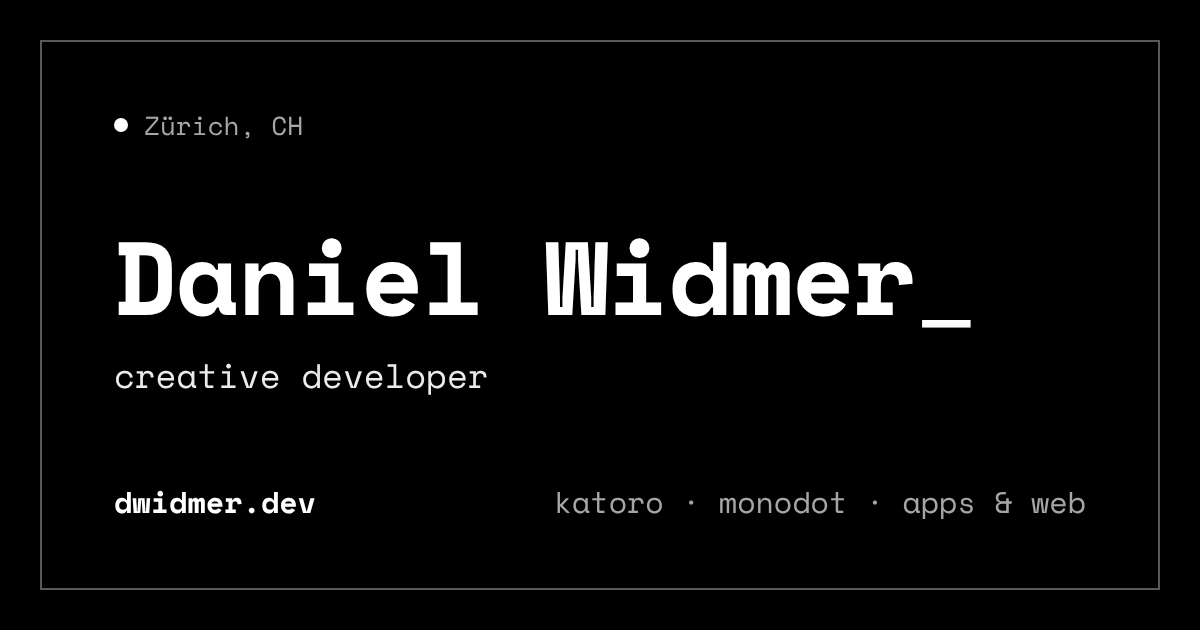
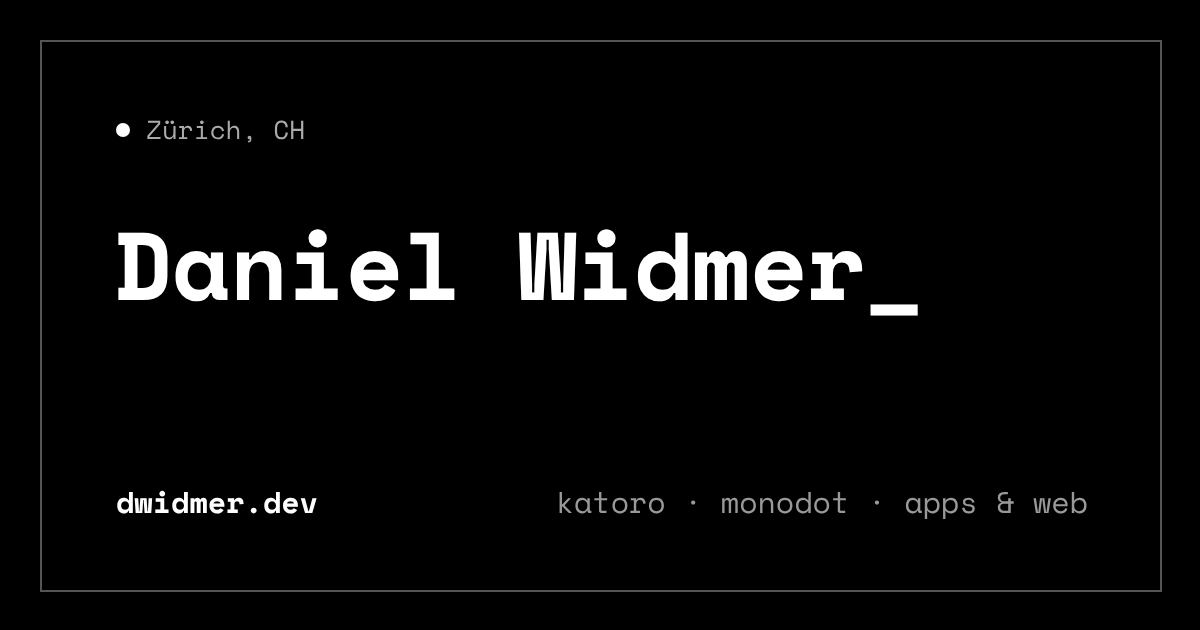
Trim the site to plain text: no "creative developer", no sales copy
- Drop the "creative developer" tagline from the hero, meta tags, structured
  data, manifest, share card and the website preview screenshots
- Remove the lead paragraphs above Projekte and Kontakt
- Remove the contact sidebar (Direkter Draht, terminal lines); the form now
  spans the full width, LinkedIn stays in the footer
- Shorten project descriptions and drop the filler highlights on the home page
- Tone down a few phrases on the monodot, Schälle Sau and website pages

Claude-Session: https://claude.ai/code/session_01XacnCaQFSujVxnhW9fu5eD

diff --git a/index.html b/index.html
@@ -22,10 +22,10 @@
     <meta name="theme-color" content="#000000">
     <title data-en-text="Daniel Widmer - Portfolio">Daniel Widmer - Portfolio</title>
     <meta name="description"
-        content="Portfolio von Daniel Widmer – Creative Developer & Digital Artist. Senior Business Analyst und App Developer mit Expertise in Frontend Development, UI/UX Design und Mobile App Development. Spezialisiert auf JavaScript, Swift, SwiftUI und innovative digitale Lösungen."
-        data-en-content="Portfolio of Daniel Widmer – Creative Developer & Digital Artist. Senior Business Analyst and app developer with expertise in frontend development, UI/UX design and mobile app development. Focused on JavaScript, Swift, SwiftUI and thoughtful digital products.">
+        content="Daniel Widmer, Business Analyst und App-Entwickler in Zürich. iOS-Apps mit Swift und SwiftUI, Websites mit JavaScript."
+        data-en-content="Daniel Widmer, business analyst and app developer in Zurich. iOS apps with Swift and SwiftUI, websites with JavaScript.">
     <meta name="keywords"
-        content="Daniel Widmer, Creative Developer, Frontend Development, JavaScript, Swift, iOS Development, UI/UX Design, Portfolio, Business Analyst, App Developer, SwiftUI, Vite, Web Development">
+        content="Daniel Widmer, Frontend Development, JavaScript, Swift, iOS Development, UI/UX Design, Portfolio, Business Analyst, App Developer, SwiftUI, Vite, Web Development">
     <meta name="author" content="Daniel Widmer">
     <meta name="robots" content="index, follow">
     <link rel="canonical" href="https://dwidmer.dev/">
@@ -42,21 +42,21 @@
     <meta property="og:locale:alternate" content="en_GB">
     <meta property="og:title" content="Daniel Widmer - Portfolio">
     <meta property="og:description"
-        content="Creative Developer & Digital Artist. Digitale Erlebnisse, die begeistern und inspirieren."
-        data-en-content="Creative Developer & Digital Artist. Digital experiences that delight and inspire.">
+        content="Business Analyst und App-Entwickler in Zürich."
+        data-en-content="Business analyst and app developer in Zurich.">
     <meta property="og:url" content="https://dwidmer.dev/">
     <meta property="og:site_name" content="Daniel Widmer">
     <meta property="og:image" content="https://dwidmer.dev/assets/og-image.png">
     <meta property="og:image:width" content="1200">
     <meta property="og:image:height" content="630">
-    <meta property="og:image:alt" content="Daniel Widmer, creative developer, dwidmer.dev">
+    <meta property="og:image:alt" content="Daniel Widmer, dwidmer.dev">
 
     <!-- Twitter Card -->
     <meta name="twitter:card" content="summary_large_image">
     <meta name="twitter:title" content="Daniel Widmer - Portfolio">
-    <meta name="twitter:description" content="Creative Developer & Digital Artist.">
+    <meta name="twitter:description" content="Business Analyst und App-Entwickler in Zürich.">
     <meta name="twitter:image" content="https://dwidmer.dev/assets/og-image.png">
-    <meta name="twitter:image:alt" content="Daniel Widmer, creative developer, dwidmer.dev">
+    <meta name="twitter:image:alt" content="Daniel Widmer, dwidmer.dev">
 
     <!-- Structured Data (Schema.org) -->
     <script type="application/ld+json">
@@ -64,8 +64,7 @@
         "@context": "https://schema.org",
         "@type": "Person",
         "name": "Daniel Widmer",
-        "jobTitle": "Creative Developer & Digital Artist",
-        "description": "Senior Business Analyst und App Developer mit Expertise in Frontend Development, UI/UX Design und Mobile App Development",
+        "jobTitle": "Business Analyst & App Developer",
         "url": "https://dwidmer.dev",
         "sameAs": [
             "https://github.com/danisan101",
@@ -148,7 +147,6 @@
                 <p class="hero-status"><span class="status-dot" aria-hidden="true"></span><span data-lang="de">Zürich, CH · baut gerade an katoro</span><span data-lang="en">Zurich, CH · currently building katoro</span></p>
                 <h1 id="heroTitle" tabindex="-1"><span id="heroName" class="hero-name" data-text="Daniel Widmer">Daniel
                         Widmer</span><span class="cursor-blink" aria-hidden="true">_</span></h1>
-                <p id="heroTagline">creative developer</p>
                 <div class="hero-actions">
                     <a class="cta-button" href="#projects"><span data-lang="de">Projekte ansehen</span><span data-lang="en">View projects</span></a>
                     <a class="cta-button cta-button-ghost" href="#contact"><span data-lang="de">Kontakt</span><span data-lang="en">Contact</span></a>
@@ -167,8 +165,7 @@
         <section id="projects" class="section-block fade-in" aria-labelledby="projectsTitle">
             <div class="section-heading">
                 <span class="section-eyebrow" aria-hidden="true">01 / <span data-lang="de">Projekte</span><span data-lang="en">Projects</span></span>
-                <h2 id="projectsTitle" class="section-title"><span data-lang="de">Meine Projekte</span><span data-lang="en">My projects</span></h2>
-                <p class="section-lead"><span data-lang="de">Ausgewählte Arbeiten mit monochromem Charakter, reduzierter UI und Fokus auf Tempo, Lesbarkeit und Nutzbarkeit.</span><span data-lang="en">Selected work with a monochrome character, a pared-back UI and a focus on speed, readability and usability.</span></p>
+                <h2 id="projectsTitle" class="section-title"><span data-lang="de">Projekte</span><span data-lang="en">Projects</span></h2>
             </div>
             <div class="projects-grid">
                 <article class="project-card project-card-featured">
@@ -212,11 +209,7 @@
                                 <span class="project-year">2026</span>
                             </div>
                             <h3 class="project-title">monodot. <span class="project-arrow" aria-hidden="true">&rarr;</span></h3>
-                            <p class="project-description"><span data-lang="de">Minimalistische App mit Fokus auf Reduktion und klare Interaktion.</span><span data-lang="en">Minimal app focused on reduction and clear interaction.</span></p>
-                            <ul class="project-highlights">
-                                <li><span data-lang="de">Konzept, Entwicklung & UI/UX aus einer Hand</span><span data-lang="en">Concept, development & UI/UX from a single hand</span></li>
-                                <li><span data-lang="de">Native iOS-Experience mit monochromer Ästhetik</span><span data-lang="en">Native iOS experience with a monochrome aesthetic</span></li>
-                            </ul>
+                            <p class="project-description"><span data-lang="de">Minimalistische iOS-App in Schwarzweiss.</span><span data-lang="en">Minimal iOS app in black and white.</span></p>
                             <div class="project-tech">
                                 <span class="tech-tag">Swift</span>
                                 <span class="tech-tag">iOS</span>
@@ -238,11 +231,7 @@
                                 <span class="project-year">2025</span>
                             </div>
                             <h3 class="project-title">Schälle Sau <span class="project-arrow" aria-hidden="true">&rarr;</span></h3>
-                            <p class="project-description"><span data-lang="de">Scorekeeper-App mit minimalistischer UI, optimiert für schnelle Spielzüge.</span><span data-lang="en">Scorekeeper app with a minimal UI, built for quick turns.</span></p>
-                            <ul class="project-highlights">
-                                <li><span data-lang="de">Konzept, Entwicklung & UI/UX aus einer Hand</span><span data-lang="en">Concept, development & UI/UX from a single hand</span></li>
-                                <li><span data-lang="de">Native iOS-Experience mit klaren, reduzierten Controls</span><span data-lang="en">Native iOS experience with clear, reduced controls</span></li>
-                            </ul>
+                            <p class="project-description"><span data-lang="de">Scorekeeper-App für iPhone und iPad.</span><span data-lang="en">Scorekeeper app for iPhone and iPad.</span></p>
                             <div class="project-tech">
                                 <span class="tech-tag">Swift</span>
                                 <span class="tech-tag">iOS</span>
@@ -264,11 +253,7 @@
                                 <span class="project-year">2025</span>
                             </div>
                             <h3 class="project-title"><span data-lang="de">Meine Website</span><span data-lang="en">My website</span> <span class="project-arrow" aria-hidden="true">&rarr;</span></h3>
-                            <p class="project-description"><span data-lang="de">Monochromes Portfolio auf einem eigenen Design-System, mit Terminal-Akzent und Easter Eggs.</span><span data-lang="en">Monochrome portfolio built on its own design system, with a terminal accent and easter eggs.</span></p>
-                            <ul class="project-highlights">
-                                <li><span data-lang="de">Ein Satz Tokens für Abstand, Typografie, Radius und Bewegung</span><span data-lang="en">One set of tokens for spacing, typography, radius and motion</span></li>
-                                <li><span data-lang="de">Performance-optimiert mit Vite und modularem JS</span><span data-lang="en">Performance-tuned with Vite and modular JS</span></li>
-                            </ul>
+                            <p class="project-description"><span data-lang="de">Diese Seite. HTML, CSS und JavaScript mit Vite.</span><span data-lang="en">This site. HTML, CSS and JavaScript with Vite.</span></p>
                             <div class="project-tech">
                                 <span class="tech-tag">HTML</span>
                                 <span class="tech-tag">CSS</span>
@@ -286,7 +271,6 @@
             <div class="section-heading">
                 <span class="section-eyebrow" aria-hidden="true">02 / <span data-lang="de">Kontakt</span><span data-lang="en">Contact</span></span>
                 <h2 id="contactTitle" class="section-title"><span data-lang="de">Kontakt</span><span data-lang="en">Contact</span></h2>
-                <p class="section-lead"><span data-lang="de">Direkt, reduziert und ohne Umwege: Wenn du ein Projekt, ein Produkt oder ein digitales Erlebnis verbessern willst, lass uns sprechen.</span><span data-lang="en">Direct, reduced and straight to the point: if you want to improve a project, a product or a digital experience, let's talk.</span></p>
             </div>
             <div class="contact-terminal">
                 <div class="terminal-header">
@@ -295,19 +279,6 @@
                 </div>
                 <div class="contact-shell">
                     <div class="contact-grid">
-                        <div class="contact-aside">
-                            <div class="contact-aside-title"><span data-lang="de">Direkter Draht</span><span data-lang="en">Direct line</span></div>
-                            <ul class="contact-aside-list">
-                                <li><span data-lang="de">Die Nachricht landet direkt in meinem Postfach.</span><span data-lang="en">Your message goes straight to my inbox.</span></li>
-                                <li><span data-lang="de">Lieber anders? Schreib mir auf</span><span data-lang="en">Prefer something else? Message me on</span> <a href="https://www.linkedin.com/in/daniel-widmer-26426a173"
-                                        rel="noopener" target="_blank">LinkedIn</a>.</li>
-                            </ul>
-                            <div class="contact-code-block">
-                                <div class="code-line">$ whoami → daniel.widmer</div>
-                                <div class="code-line">$ ping → online</div>
-                                <div class="code-line">$ mode → retro/mono</div>
-                            </div>
-                        </div>
                         <div class="contact-form">
                             <form id="contactForm" aria-label="Kontaktformular" data-en-aria-label="Contact form">
                                 <div class="form-grid">

diff --git a/app.html b/app.html
@@ -69,15 +69,15 @@
             <div class="features-grid">
                 <div class="feature-card">
                     <h3><span data-lang="de">Schnelle Erfassung</span><span data-lang="en">Quick entry</span></h3>
-                    <p><span data-lang="de">Punkte blitzschnell eintragen mit optimierten Controls für flüssiges Spielen.</span><span data-lang="en">Enter scores in a flash with controls tuned for smooth play.</span></p>
+                    <p><span data-lang="de">Punkte schnell eintragen, mit wenigen Tipps pro Runde.</span><span data-lang="en">Enter scores quickly, with a few taps per round.</span></p>
                 </div>
                 <div class="feature-card">
                     <h3><span data-lang="de">Minimalistisches Design</span><span data-lang="en">Minimal design</span></h3>
-                    <p><span data-lang="de">Klare, reduzierte UI, die sich auf das Wesentliche konzentriert.</span><span data-lang="en">A clear, reduced UI that focuses on what matters.</span></p>
+                    <p><span data-lang="de">Schlichte Oberfläche ohne Ablenkung.</span><span data-lang="en">A plain interface without distractions.</span></p>
                 </div>
                 <div class="feature-card">
                     <h3>Native iOS</h3>
-                    <p><span data-lang="de">Entwickelt mit SwiftUI für eine native, flüssige Experience auf iPhone und iPad.</span><span data-lang="en">Built with SwiftUI for a native, fluid experience on iPhone and iPad.</span></p>
+                    <p><span data-lang="de">Mit SwiftUI gebaut, für iPhone und iPad.</span><span data-lang="en">Built with SwiftUI for iPhone and iPad.</span></p>
                 </div>
             </div>
         </section>

diff --git a/monodot.html b/monodot.html
@@ -69,15 +69,15 @@
             <div class="features-grid">
                 <div class="feature-card">
                     <h3><span data-lang="de">Monochrome Ästhetik</span><span data-lang="en">Monochrome aesthetic</span></h3>
-                    <p><span data-lang="de">Reduziertes Design mit Fokus auf klare Formen und kontrastreiche Darstellung.</span><span data-lang="en">Reduced design focused on clear shapes and high contrast.</span></p>
+                    <p><span data-lang="de">Klare Formen, hoher Kontrast, keine Farbe.</span><span data-lang="en">Clear shapes, high contrast, no colour.</span></p>
                 </div>
                 <div class="feature-card">
                     <h3><span data-lang="de">Klare Interaktion</span><span data-lang="en">Clear interaction</span></h3>
-                    <p><span data-lang="de">Intuitive Bedienung ohne Ablenkung, jede Geste hat Bedeutung.</span><span data-lang="en">Intuitive, distraction-free controls where every gesture has meaning.</span></p>
+                    <p><span data-lang="de">Einfache Bedienung ohne Ablenkung.</span><span data-lang="en">Simple controls without distractions.</span></p>
                 </div>
                 <div class="feature-card">
                     <h3>Native iOS</h3>
-                    <p><span data-lang="de">Entwickelt mit SwiftUI für eine reibungslose, native Experience.</span><span data-lang="en">Built with SwiftUI for a smooth, native experience.</span></p>
+                    <p><span data-lang="de">Mit SwiftUI gebaut.</span><span data-lang="en">Built with SwiftUI.</span></p>
                 </div>
             </div>
         </section>

diff --git a/website.html b/website.html
@@ -24,7 +24,7 @@
     <link rel="alternate" hreflang="de" href="https://dwidmer.dev/website.html">
     <link rel="alternate" hreflang="en" href="https://dwidmer.dev/website.html?lang=en">
     <link rel="alternate" hreflang="x-default" href="https://dwidmer.dev/website.html">
-    <meta name="description" content="Meine Website – Monochrome Portfolio-Experience mit CRT-Flair, animierten Terminals und Easter Eggs. Ein Projekt von Daniel Widmer." data-en-content="My website – a monochrome portfolio with CRT flair, animated terminals and easter eggs. A project by Daniel Widmer.">
+    <meta name="description" content="Meine Website – Monochromes Portfolio mit Terminal-Look und Easter Eggs. Ein Projekt von Daniel Widmer." data-en-content="My website – a monochrome portfolio with a terminal look and easter eggs. A project by Daniel Widmer.">
     <link rel="icon" href="/favicon.svg" type="image/svg+xml">
     <link rel="stylesheet" href="/src/css/page-project.css">
 </head>
@@ -74,7 +74,7 @@
             </div>
             <div class="feature-card">
                 <h3>Easter Eggs</h3>
-                <p><span data-lang="de">Versteckte Snake- und Tetris-Spiele als spielerische Überraschung.</span><span data-lang="en">Hidden Snake and Tetris games as a playful surprise.</span></p>
+                <p><span data-lang="de">Versteckte Snake- und Tetris-Spiele.</span><span data-lang="en">Hidden Snake and Tetris games.</span></p>
             </div>
             <div class="feature-card">
                 <h3>Performance</h3>

diff --git a/src/css/contact.css b/src/css/contact.css
@@ -18,50 +18,14 @@
 
 .contact-grid {
     display: grid;
-    grid-template-columns: minmax(0, 1fr) minmax(0, 1.6fr);
+    grid-template-columns: minmax(0, 1fr);
     gap: var(--space-6);
-}
-
-.contact-aside {
-    display: flex;
-    flex-direction: column;
-    gap: var(--space-4);
-}
-
-.contact-aside-title {
-    font-size: var(--text-xs);
-    text-transform: uppercase;
-    letter-spacing: 0.14em;
-    color: var(--light);
-}
-
-.contact-aside-list a {
-    color: var(--light);
-}
-
-.contact-aside-list {
-    list-style: none;
-    display: flex;
-    flex-direction: column;
-    gap: var(--space-2);
-    font-size: var(--text-sm);
-    color: var(--text-muted);
-}
-
-.contact-code-block {
-    display: flex;
-    flex-direction: column;
-    gap: var(--space-1);
-    font-size: var(--text-xs);
-    color: var(--text-muted);
-    border-left: 1px solid var(--surface-border);
-    padding-left: var(--space-3);
 }
 
 /* Form */
 .form-grid {
     display: grid;
-    grid-template-columns: repeat(auto-fit, minmax(200px, 1fr));
+    grid-template-columns: repeat(3, minmax(0, 1fr));
     gap: var(--space-4);
 }
 
@@ -187,7 +151,7 @@
 }
 
 @media (max-width: 768px) {
-    .contact-grid {
+    .form-grid {
         grid-template-columns: 1fr;
     }
 

diff --git a/src/js/modules/seo.js b/src/js/modules/seo.js
@@ -21,9 +21,9 @@ function updateMetaTags() {
 // Update meta description dynamically based on visible section
 export function updateSectionMeta(section) {
     const descriptions = {
-        'home': 'Portfolio von Daniel Widmer – Creative Developer & Digital Artist',
+        'home': 'Daniel Widmer, Business Analyst und App-Entwickler in Zürich',
         'projects': 'Projekte von Daniel Widmer – Web und Mobile Apps',
-        'contact': 'Kontakt zu Daniel Widmer – Lass uns zusammenarbeiten'
+        'contact': 'Kontakt zu Daniel Widmer'
     };
 
     const metaDesc = document.querySelector('meta[name="description"]');

diff --git a/src/css/hero.css b/src/css/hero.css
@@ -19,7 +19,7 @@
 .hero-content h1 {
     font-size: var(--text-hero);
     font-weight: 400;
-    margin-bottom: 0.5rem;
+    margin-bottom: 2.5rem;
     color: var(--light);
     text-transform: lowercase;
     letter-spacing: 0.08em;
